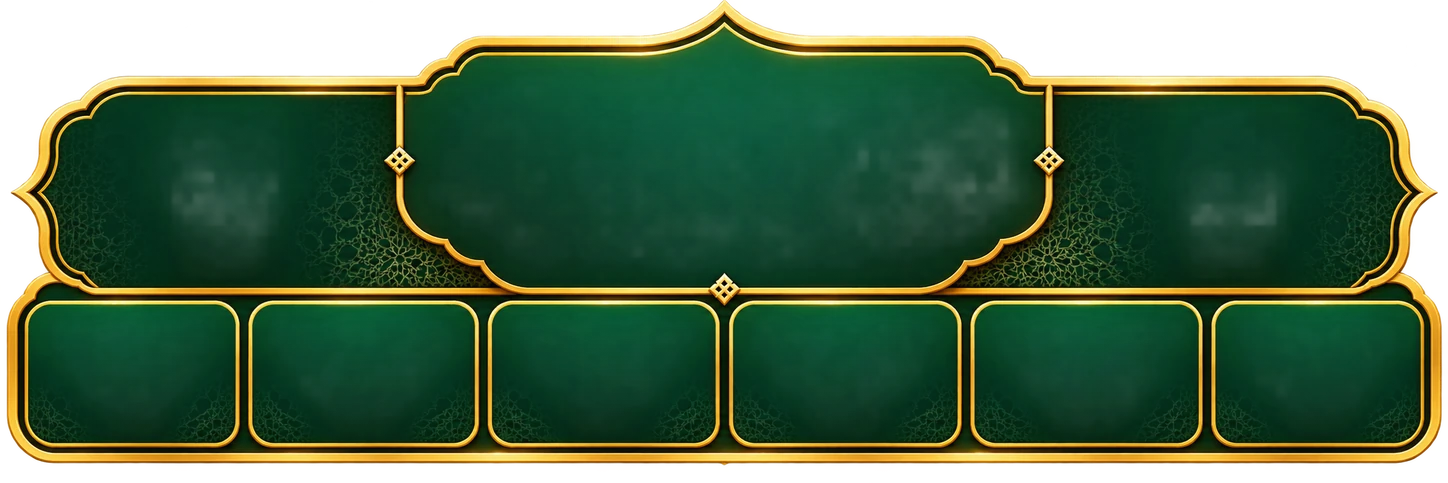
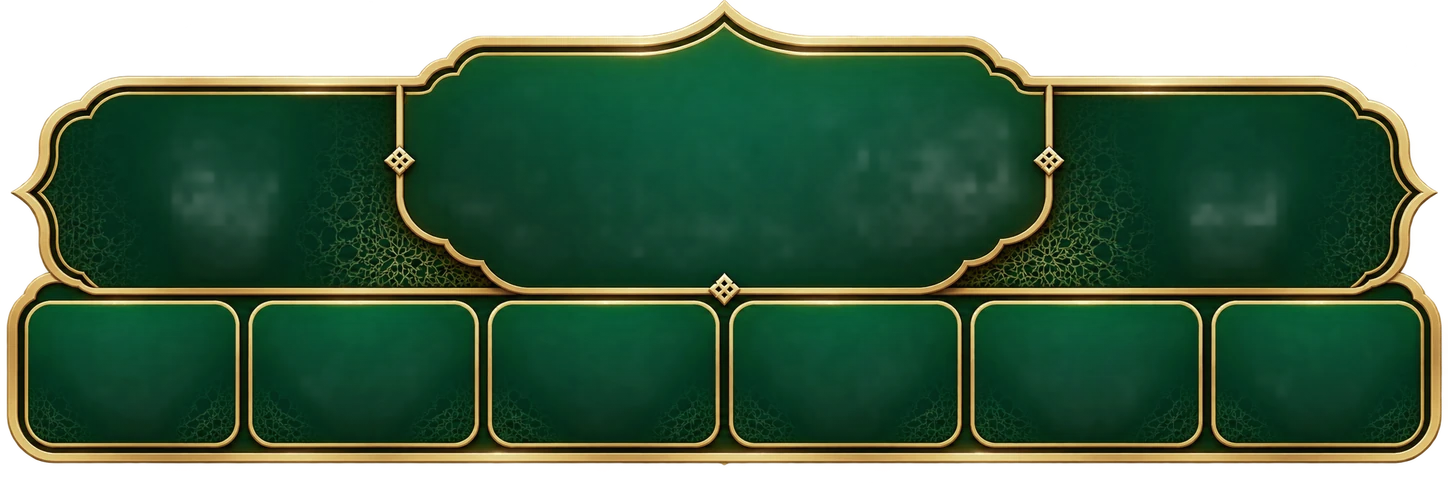
Ana ekran tablette üst üste binmiyor; altın tonu şampanya altınına yumuşatıldı
- Üst alanın yüksekliği içeriğine göre (levhalar, ayet, genişlikle büyüyen geri sayım paneli) hesaplanır;
  sığmazsa önce tuşlar basıklaşır, yine sığmazsa ayet gizlenir. Tablette levha, ayet ve saat çakışıyordu.
- Tabletteki gerçek görüntüye göre sarı fazlaydı: yazı, çerçeve, simge ve levha altını şampanya
  altınına (#F8EACB → #E8C88A → #C9A05A) çekildi, ışıltı kaldırıldı; geri sayım panelinin altın
  kısımları ve içinde bulunulan vakit kutusu daha az doygun; yeşil zeminde metin krem-altın.

Claude-Session: https://claude.ai/code/session_01DGn2qbp3aW4UFTr6T3CtEj

Changed region(s): [[0.0, 0.0, 1.0, 0.9627], [0.6837, 0.4658, 0.7148, 0.528], [0.2797, 0.4658, 0.3108, 0.528]]

diff --git a/lib/screens/home_screen.dart b/lib/screens/home_screen.dart
@@ -133,9 +133,16 @@ class _HomeScreenState extends State<HomeScreen> {
             final tileW = (w - 2 * pad - 2 * gap) / 3;
             double gridFor(double tileH) => _rows * tileH + (_rows - 1) * gap + 2 * pad;
 
-            // Tuş yüksekliği: tercih genişlik/1.2. Üst alan en az ekranın %40'ı (ve 270 px) kalsın;
-            // sığmazsa tuşlar basıklaşır. Uzun ekranda üst alan %56'yı geçmesin, tuşlar büyür.
-            final minHero = math.max(270.0, h * 0.40), maxHero = h * 0.56;
+            // Üst alanın içeriği: levhalar ve gece/gündüz tuşu, ayet, geri sayım paneli (genişlikle büyür).
+            // Hepsi üst üste binmeden sığmalı; sığmazsa önce tuşlar basıklaşır, yine sığmazsa ayet gizlenir.
+            final bannerH = (w - 12) / CountdownBanner.aspect + 4;
+            final topH = 6 + 133 * k; // levha (95k) + boşluk + gece/gündüz tuşu (34k)
+            final withVerse = topH + 68 * k + bannerH + 8, withoutVerse = topH + bannerH + 8;
+            final showVerse = h - gridFor(tileW / 1.75) >= withVerse;
+            // Tuş yüksekliği: tercih genişlik/1.2. Üst alan en az ekranın %40'ı (ve 270 px) ve içeriği kadar
+            // kalsın; sığmazsa tuşlar basıklaşır. Uzun ekranda üst alan %56'yı geçmesin, tuşlar büyür.
+            final minHero = math.max(math.max(270.0, h * 0.40), showVerse ? withVerse : withoutVerse);
+            final maxHero = math.max(h * 0.56, minHero);
             var tileH = tileW / 1.2;
             if (h - gridFor(tileH) < minHero) {
               tileH = math.max(tileW / 1.75, (h - minHero - (_rows - 1) * gap - 2 * pad) / _rows);
@@ -152,7 +159,7 @@ class _HomeScreenState extends State<HomeScreen> {
               physics: scrolls ? const ClampingScrollPhysics() : const NeverScrollableScrollPhysics(),
               child: Column(
                 children: [
-                  SizedBox(height: heroH, child: _hero(now, loc, k, shadow)),
+                  SizedBox(height: heroH, child: _hero(now, loc, k, shadow, showVerse: showVerse)),
                   // ============================================================
                   // ALT KISIM - 12 TUŞ (3 × 4)
                   // ============================================================
@@ -193,7 +200,7 @@ class _HomeScreenState extends State<HomeScreen> {
   // ============================================================
   // ÜST YARI - ANA GÖRSEL, LEVHALAR, KONUM/TARİH, AYET, GERİ SAYIM
   // ============================================================
-  Widget _hero(DateTime now, AppLocation? loc, double k, List<Shadow> shadow) {
+  Widget _hero(DateTime now, AppLocation? loc, double k, List<Shadow> shadow, {bool showVerse = true}) {
     final medal = 95 * k;
     return Stack(
       children: [
@@ -271,7 +278,7 @@ class _HomeScreenState extends State<HomeScreen> {
                         Text(
                           '${two(now.hour)}:${two(now.minute)}:${two(now.second)}',
                           style: TextStyle(
-                            color: const Color(0xFFF7C746), // başlıklarla aynı sıcak altın; açık gökte gölgeyle okunur
+                            color: const Color(0xFFE8C88A), // başlıklarla aynı sıcak altın; açık gökte gölgeyle okunur
                             shadows: shadow,
                             fontSize: 19 * k,
                             fontWeight: FontWeight.w600,
@@ -303,35 +310,36 @@ class _HomeScreenState extends State<HomeScreen> {
           child: Column(
             crossAxisAlignment: CrossAxisAlignment.stretch,
             children: [
-              Transform.translate(
-                // Panelin sol kutusu ortadaki kemerden daha aşağıdan başlar; ayet o boşluğa iner.
-                offset: Offset(0, 18 * k),
-                child: Padding(
-                  padding: EdgeInsets.only(left: 14, bottom: 6 * k),
-                  child: Column(
-                    crossAxisAlignment: CrossAxisAlignment.start,
-                    children: [
-                      Text(
-                        '“Şüphesiz\nnamaz, müminler\nüzerine vakitleri\nbelirlenmiş bir farzdır.”',
-                        style: TextStyle(
-                          color: Colors.white,
-                          fontFamily: 'serif', // ayet eski yazı tipiyle, kalın italik
-                          fontSize: 12.5 * k,
-                          fontWeight: FontWeight.w600,
-                          height: 1.3,
-                          fontStyle: FontStyle.italic,
-                          shadows: shadow,
+              if (showVerse)
+                Transform.translate(
+                  // Panelin sol kutusu ortadaki kemerden daha aşağıdan başlar; ayet o boşluğa iner.
+                  offset: Offset(0, 18 * k),
+                  child: Padding(
+                    padding: EdgeInsets.only(left: 14, bottom: 6 * k),
+                    child: Column(
+                      crossAxisAlignment: CrossAxisAlignment.start,
+                      children: [
+                        Text(
+                          '“Şüphesiz\nnamaz, müminler\nüzerine vakitleri\nbelirlenmiş bir farzdır.”',
+                          style: TextStyle(
+                            color: Colors.white,
+                            fontFamily: 'serif', // ayet eski yazı tipiyle, kalın italik
+                            fontSize: 12.5 * k,
+                            fontWeight: FontWeight.w600,
+                            height: 1.3,
+                            fontStyle: FontStyle.italic,
+                            shadows: shadow,
+                          ),
                         ),
-                      ),
-                      const SizedBox(height: 2),
-                      GoldText(
-                        'Nisâ, 103',
-                        style: TextStyle(fontFamily: 'serif', fontSize: 10.5 * k, fontWeight: FontWeight.w600),
-                      ),
-                    ],
+                        const SizedBox(height: 2),
+                        GoldText(
+                          'Nisâ, 103',
+                          style: TextStyle(fontFamily: 'serif', fontSize: 10.5 * k, fontWeight: FontWeight.w600),
+                        ),
+                      ],
+                    ),
                   ),
                 ),
-              ),
               Padding(
                 padding: const EdgeInsets.symmetric(horizontal: 6),
                 child: GestureDetector(

diff --git a/lib/screens/ramadan_screen.dart b/lib/screens/ramadan_screen.dart
@@ -214,7 +214,7 @@ class _RamadanScreenState extends State<RamadanScreen> {
         ),
         boxShadow: const [
           BoxShadow(color: Color(0x59000000), spreadRadius: 3),
-          BoxShadow(color: Color(0x73EBB63B), spreadRadius: 4.5),
+          BoxShadow(color: Color(0x73CFAE68), spreadRadius: 4.5),
           BoxShadow(color: Color(0x73000000), blurRadius: 22, offset: Offset(0, 8)),
         ],
       ),
@@ -238,7 +238,7 @@ class _RamadanScreenState extends State<RamadanScreen> {
                       shaderCallback: (r) => const LinearGradient(
                         begin: Alignment.topCenter,
                         end: Alignment.bottomCenter,
-                        colors: [Color(0xFFFFE7A0), Color(0xFFF2C241), Color(0xFFC88A18)],
+                        colors: [Color(0xFFF6E6BE), Color(0xFFE3C07A), Color(0xFFB8914A)],
                         stops: [0, 0.55, 1],
                       ).createShader(r),
                       child: FittedBox(
@@ -298,7 +298,7 @@ class _RamadanScreenState extends State<RamadanScreen> {
               Container(
                 decoration: const BoxDecoration(
                   color: Color(0x4D000000),
-                  border: Border(top: BorderSide(color: Color(0x4DEBB63B))),
+                  border: Border(top: BorderSide(color: Color(0x4DCFAE68))),
                 ),
                 child: IntrinsicHeight(
                   child: Row(
@@ -307,7 +307,7 @@ class _RamadanScreenState extends State<RamadanScreen> {
                         child: _timeCell(kVakitIkonlari[0], 'Sahur (İmsak)',
                             today == null ? '--:--' : formatHm(today.slots[0].time)),
                       ),
-                      Container(width: 1, color: const Color(0x40EBB63B)),
+                      Container(width: 1, color: const Color(0x40CFAE68)),
                       Expanded(
                         child: _timeCell(kVakitIkonlari[4], 'İftar (Akşam)',
                             today == null ? '--:--' : formatHm(today.slots[4].time)),
@@ -368,7 +368,7 @@ class _RamadanScreenState extends State<RamadanScreen> {
               ),
               child: Column(
                 children: [
-                  Icon(icon, size: 24, color: on ? RC.bronzeText : const Color(0xFFF2C24F)),
+                  Icon(icon, size: 24, color: on ? RC.bronzeText : const Color(0xFFE2C584)),
                   const SizedBox(height: 2),
                   FittedBox(
                     fit: BoxFit.scaleDown,
@@ -1010,12 +1010,12 @@ class _HeroOrnamentPainter extends CustomPainter {
       paint,
     );
     final line = Paint()
-      ..shader = const LinearGradient(colors: [Color(0x00EBB63B), gold]).createShader(Rect.fromLTWH(0, cy, cx - 40, 1))
+      ..shader = const LinearGradient(colors: [Color(0x00CFAE68), gold]).createShader(Rect.fromLTWH(0, cy, cx - 40, 1))
       ..strokeWidth = 1;
     canvas.drawLine(Offset(cx - 150, cy), Offset(cx - 40, cy), line);
     final line2 = Paint()
       ..shader =
-          const LinearGradient(colors: [gold, Color(0x00EBB63B)]).createShader(Rect.fromLTWH(cx + 40, cy, 110, 1))
+          const LinearGradient(colors: [gold, Color(0x00CFAE68)]).createShader(Rect.fromLTWH(cx + 40, cy, 110, 1))
       ..strokeWidth = 1;
     canvas.drawLine(Offset(cx + 40, cy), Offset(cx + 150, cy), line2);
   }

diff --git a/lib/widgets/page_shell.dart b/lib/widgets/page_shell.dart
@@ -175,7 +175,7 @@ class _HeaderDelegate extends SliverPersistentHeaderDelegate {
     return DecoratedBox(
       decoration: const BoxDecoration(
         color: AppColors.darkGreen,
-        border: Border(bottom: BorderSide(color: Color(0x99EBB63B), width: 1.5)),
+        border: Border(bottom: BorderSide(color: Color(0x99CFAE68), width: 1.5)),
       ),
       child: ClipRect(
         child: Stack(
@@ -329,7 +329,7 @@ class _HeaderDelegate extends SliverPersistentHeaderDelegate {
                           child: Text(
                             subtitle!,
                             maxLines: 1,
-                            style: const TextStyle(color: Color(0xFFF3CF78), fontSize: 11, shadows: _shadow),
+                            style: const TextStyle(color: Color(0xFFEBD3A0), fontSize: 11, shadows: _shadow),
                           ),
                         ),
                         const SizedBox(height: 4),
@@ -426,7 +426,7 @@ class _LocationPill extends StatelessWidget {
             decoration: BoxDecoration(
               color: const Color(0x8C021C12),
               borderRadius: BorderRadius.circular(99),
-              border: Border.all(color: const Color(0xCCEBB63B), width: 1.2),
+              border: Border.all(color: const Color(0xCCCFAE68), width: 1.2),
             ),
             child: Row(
               mainAxisSize: MainAxisSize.min,
@@ -442,7 +442,7 @@ class _LocationPill extends StatelessWidget {
                   ),
                 ),
                 const SizedBox(width: 1),
-                const Icon(Icons.chevron_right, size: 14, color: Color(0xFFF2C24F)),
+                const Icon(Icons.chevron_right, size: 14, color: Color(0xFFE2C584)),
               ],
             ),
           ),
@@ -464,7 +464,7 @@ class _Ornament extends StatelessWidget {
           decoration: BoxDecoration(
             gradient: LinearGradient(
               colors:
-                  left ? const [Color(0x00EBB63B), Color(0xFFEBB63B)] : const [Color(0xFFEBB63B), Color(0x00EBB63B)],
+                  left ? const [Color(0x00CFAE68), Color(0xFFCFAE68)] : const [Color(0xFFCFAE68), Color(0x00CFAE68)],
             ),
           ),
         );
@@ -478,7 +478,7 @@ class _Ornament extends StatelessWidget {
           child: Container(
             width: 6,
             height: 6,
-            decoration: BoxDecoration(border: Border.all(color: const Color(0xFFF2C24F), width: 1.2)),
+            decoration: BoxDecoration(border: Border.all(color: const Color(0xFFE2C584), width: 1.2)),
           ),
         ),
         const SizedBox(width: 4),

diff --git a/lib/screens/dua_circle_screen.dart b/lib/screens/dua_circle_screen.dart
@@ -1098,7 +1098,7 @@ class _RailButton extends StatelessWidget {
   @override
   Widget build(BuildContext context) {
     final fg = selected ? const Color(0xFFFBE7A8) : RC.cream;
-    final accent = selected ? RC.bronzeText : const Color(0xFFF2C24F);
+    final accent = selected ? RC.bronzeText : const Color(0xFFE2C584);
     return Semantics(
       button: true,
       selected: selected,
@@ -1219,7 +1219,7 @@ class _CornerPainter extends CustomPainter {
   void paint(Canvas canvas, Size size) {
     final s = size.width / 40;
     final p = Paint()
-      ..color = const Color(0xE6EBB63B)
+      ..color = const Color(0xE6CFAE68)
       ..style = PaintingStyle.stroke
       ..strokeWidth = 1.6 * s;
     canvas.drawPath(
@@ -1238,7 +1238,7 @@ class _CornerPainter extends CustomPainter {
         ..lineTo(24 * s, 8 * s),
       p,
     );
-    canvas.drawCircle(Offset(9 * s, 9 * s), 2.4 * s, Paint()..color = const Color(0xE6EBB63B));
+    canvas.drawCircle(Offset(9 * s, 9 * s), 2.4 * s, Paint()..color = const Color(0xE6CFAE68));
   }
 
   @override
@@ -1257,7 +1257,7 @@ class _GoldTitle extends StatelessWidget {
       shaderCallback: (r) => const LinearGradient(
         begin: Alignment.topCenter,
         end: Alignment.bottomCenter,
-        colors: [Color(0xFFFFE7A0), Color(0xFFF2C241), Color(0xFFC88A18)],
+        colors: [Color(0xFFF6E6BE), Color(0xFFE3C07A), Color(0xFFB8914A)],
         stops: [0, 0.55, 1],
       ).createShader(r),
       child: Text(

diff --git a/lib/widgets/gold_icon.dart b/lib/widgets/gold_icon.dart
@@ -12,7 +12,7 @@ class GoldIcon extends StatelessWidget {
 
   const GoldIcon(this.icon, {super.key, this.size, this.light = false, this.glow = true, this.semanticLabel});
 
-  static const _onDark = [Color(0xFFFFE7A0), Color(0xFFF2C241), Color(0xFFC88A18)];
+  static const _onDark = [Color(0xFFF6E6BE), Color(0xFFE3C07A), Color(0xFFB8914A)];
   static const _onLight = [Color(0xFFDDA530), Color(0xFFB8820F), Color(0xFF7A5208)];
 
   @override
@@ -79,15 +79,15 @@ class GoldText extends StatelessWidget {
       {super.key, required this.style, this.tone = GoldTone.onDark, this.textAlign, this.maxLines});
 
   static const _colors = {
-    GoldTone.onDark: [Color(0xFFFFF3C2), Color(0xFFFFD457), Color(0xFFF0B432)],
+    GoldTone.onDark: [Color(0xFFF8EACB), Color(0xFFE8C88A), Color(0xFFC9A05A)],
     GoldTone.onLight: [Color(0xFFB07F10), Color(0xFF8A5E08), Color(0xFF654203)],
-    GoldTone.onPhoto: [Color(0xFFFFF0BC), Color(0xFFFAD366), Color(0xFFEDAE36)],
+    GoldTone.onPhoto: [Color(0xFFFBF1D6), Color(0xFFEDD198), Color(0xFFD4AE68)],
   };
 
   static const _shadows = {
     GoldTone.onDark: [
       Shadow(color: Color(0xB3000000), blurRadius: 2, offset: Offset(0, 1)),
-      Shadow(color: Color(0x66FFC83D), blurRadius: 8),
+      Shadow(color: Color(0x1FE8C88A), blurRadius: 6),
     ],
     GoldTone.onLight: [Shadow(color: Color(0xB3FFFFFF), blurRadius: 0, offset: Offset(0, 1))],
     GoldTone.onPhoto: [

diff --git a/lib/widgets/reading_ui.dart b/lib/widgets/reading_ui.dart
@@ -55,10 +55,10 @@ class PagePalette {
     page: Color(0xFF000E09),
     paper: Color(0xFF021A12),
     paper2: Color(0xFF00120C),
-    line: Color(0x99EBB63B),
-    ink: Color(0xFFF5DB9E),
-    ink2: Color(0xFFE9C77C),
-    gold: Color(0xFFEBB63B),
+    line: Color(0x99CFAE68),
+    ink: Color(0xFFF3E4C0),
+    ink2: Color(0xFFDCC697),
+    gold: Color(0xFFCFAE68),
     chip: Color(0xFF00140E),
     pill: Color(0xFF021A12),
     verseCard: [Color(0xFFE9DCBC), Color(0xFFDCCB9F)],
@@ -90,9 +90,9 @@ class PagePalette {
 class RC {
   static const cream = Color(0xFFF6DFA6);
   static const creamSoft = Color(0xFFB9CDC2);
-  static const goldText = Color(0xFFF7D06A);
-  static const goldIcon = Color(0xFFEEBF52);
-  static const goldBorder = Color(0xFFEBB63B);
+  static const goldText = Color(0xFFEED6A0);
+  static const goldIcon = Color(0xFFDDBF7E);
+  static const goldBorder = Color(0xFFCFAE68);
   static const verseInk = Color(0xFF2A1F10);
   static const verseInk2 = Color(0xFF6F5A3A);
   static const verseGold = Color(0xFFB8892A);

diff --git a/lib/widgets/countdown_banner.dart b/lib/widgets/countdown_banner.dart
@@ -140,9 +140,9 @@ class _SlotBox extends StatelessWidget {
               gradient: const LinearGradient(
                 begin: Alignment.topCenter,
                 end: Alignment.bottomCenter,
-                colors: [Color(0xFFF7D46A), Color(0xFFD9A02A)],
+                colors: [Color(0xFFE6CC92), Color(0xFFC4A060)],
               ),
-              boxShadow: const [BoxShadow(color: Color(0x99F7C239), blurRadius: 8)],
+              boxShadow: const [BoxShadow(color: Color(0x66E6CC92), blurRadius: 8)],
             )
           : null,
       child: FittedBox(

diff --git a/lib/widgets/menu_tile.dart b/lib/widgets/menu_tile.dart
@@ -121,7 +121,7 @@ class MenuTile extends StatelessWidget {
             end: Alignment.bottomRight,
             colors: krem ? const [Color(0xFFEADBB8), Color(0xFFDCC9A0)] : const [Color(0xFF0D4630), Color(0xFF05281B)],
           ),
-          border: Border.all(color: krem ? const Color(0x8C8A6414) : const Color(0x8CEBB63B)),
+          border: Border.all(color: krem ? const Color(0x8C8A6414) : const Color(0x8CCFAE68)),
           boxShadow: const [BoxShadow(color: Color(0x333C280A), blurRadius: 4, offset: Offset(0, 2))],
         );
         child = Column(

diff --git a/lib/screens/dhikr_screen.dart b/lib/screens/dhikr_screen.dart
@@ -238,7 +238,7 @@ class _DhikrScreenState extends State<DhikrScreen> with SingleTickerProviderStat
                         child: _fitWord(
                           label,
                           TextStyle(
-                            color: on ? RC.bronzeText : (dashed ? const Color(0xFFF2C24F) : RC.cream),
+                            color: on ? RC.bronzeText : (dashed ? const Color(0xFFE2C584) : RC.cream),
                             fontSize: 11.5,
                             height: 1.2,
                             fontWeight: FontWeight.w700,

diff --git a/lib/theme.dart b/lib/theme.dart
@@ -6,7 +6,7 @@ class AppColors {
   static const Color darkGreen = Color(0xFF002215);
   static const Color green = Color(0xFF003B25);
   static const Color greenSurface = Color(0xFF002B1B);
-  static const Color gold = Color(0xFFEBB63B);
-  static const Color goldLight = Color(0xFFF8D46A);
+  static const Color gold = Color(0xFFCFAE68);
+  static const Color goldLight = Color(0xFFEED9A4);
   static const Color mint = Color(0xFF00FFB2);
 }

diff --git a/lib/screens/learn_namaz_screen.dart b/lib/screens/learn_namaz_screen.dart
@@ -569,7 +569,7 @@ class _RailButton extends StatelessWidget {
           ),
           child: Row(
             children: [
-              Icon(icon, size: 17, color: selected ? RC.bronzeText : const Color(0xFFF2C24F)),
+              Icon(icon, size: 17, color: selected ? RC.bronzeText : const Color(0xFFE2C584)),
               const SizedBox(width: 5),
               Expanded(
                 child: FittedBox(
